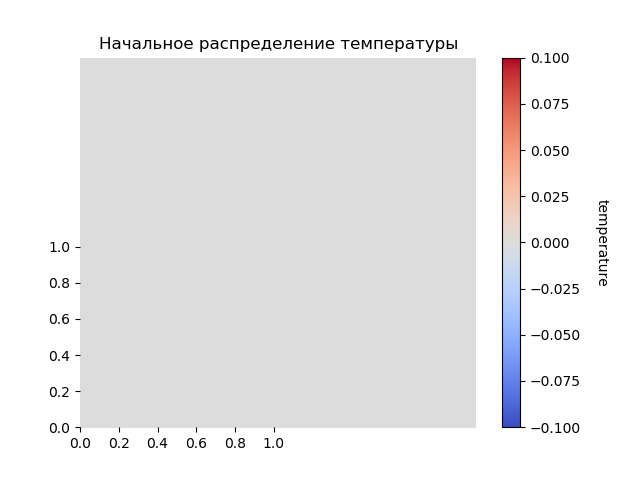
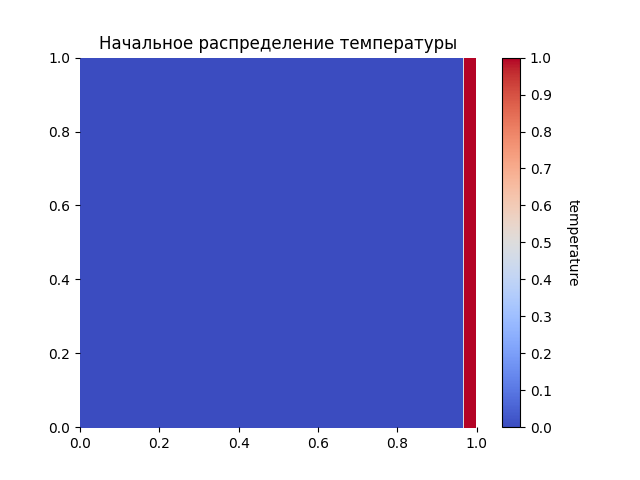
border cells time stat

diff --git a/src/proc/proc.cpp b/src/proc/proc.cpp
@@ -70,6 +70,10 @@ Proc::Proc() {
     stat.timers["sort_neighs"] = MpiTimer();
     stat.timers["compute_temps"] = MpiTimer();
     stat.timers["compute_temps_border"] = MpiTimer();
+    stat.timers["compute_temps_border_inblock"] = MpiTimer();
+    stat.timers["compute_temps_border_edges"] = MpiTimer();
+    stat.timers["compute_temps_border_interblock"] = MpiTimer();
+    stat.timers["compute_temps_border_res"] = MpiTimer();
 
     time_step_n = 0;
     active_neighs_num = 0;
@@ -719,12 +723,12 @@ void Proc::process_blocks_inner_cells() {
                     int n_neighs = 4;
                     double t0 = mesh.blocks[blk_i].cells[i*sz+j].temp[cur_temp_idx];
 
-                    if (USE_SIMPLE_FLOWS) {
+                    #ifdef USE_SIMPLE_FLOWS
                         flows_sum += mesh.blocks[blk_i].cells[i*sz+(j-1)].temp[cur_temp_idx];
                         flows_sum += mesh.blocks[blk_i].cells[i*sz+(j+1)].temp[cur_temp_idx];
                         flows_sum += mesh.blocks[blk_i].cells[(i-1)*sz+j].temp[cur_temp_idx];
                         flows_sum += mesh.blocks[blk_i].cells[(i+1)*sz+j].temp[cur_temp_idx];
-                    } else {
+                    #else
                         double t1 = mesh.blocks[blk_i].cells[i*sz+(j-1)].temp[cur_temp_idx];
                         flows_sum += - Area::a * (t1 - t0) / d * l;
                         t1 = mesh.blocks[blk_i].cells[i*sz+(j+1)].temp[cur_temp_idx];
@@ -733,7 +737,7 @@ void Proc::process_blocks_inner_cells() {
                         flows_sum += - Area::a * (t1 - t0) / d * l;
                         t1 = mesh.blocks[blk_i].cells[(i+1)*sz+j].temp[cur_temp_idx];
                         flows_sum += - Area::a * (t1 - t0) / d * l;
-                    }
+                    #endif
 
                     double x, y;
                     mesh.blocks[blk_i].get_spacial_coords(i, j, &x, &y);
@@ -741,13 +745,13 @@ void Proc::process_blocks_inner_cells() {
                     
                     // cout << "flows_sum=" << flows_sum << " q=" << q << "t_new=" << t0 + tau * (flows_sum + q) / S;
                     // cout << "internal block cells: t0=" << t0 << " flows_sum=" << flows_sum << " n_neighs=" << n_neighs << " q=" << q << endl;
-                    if (USE_SIMPLE_FLOWS) {
+                    #ifdef USE_SIMPLE_FLOWS
                         // просто среднее значение соседних ячеек + предыдущее значение в этой + источник
                         flows_sum *= Area::a;
                         mesh.blocks[blk_i].cells[i*sz+j].temp[next_temp_idx] = t0 + flows_sum / n_neighs + q;
-                    } else {
+                    #else
                         mesh.blocks[blk_i].cells[i*sz+j].temp[next_temp_idx] = t0 + tau * (flows_sum + q) / S;
-                    }
+                    #endif
                 }
             }
         }
@@ -817,38 +821,38 @@ std::pair<double,int> Proc::compute_inblock_flows_for_border_cell(BlockOfCells& 
     if (i > 0) { // down
         n_neighs++;
         double t1 = blk.cells[(i-1)*sz+j].temp[cur_temp_idx];
-        if (USE_SIMPLE_FLOWS) {
+        #ifdef USE_SIMPLE_FLOWS
             flows_this_block_sum += t1;
-        } else {
+        #else
             flows_this_block_sum += - Area::a * (t1 - t0) / d * l;
-        }
+        #endif
     }
     if (i < sz-1) { // up
         n_neighs++;
         double t1 = blk.cells[(i+1)*sz+j].temp[cur_temp_idx];
-        if (USE_SIMPLE_FLOWS) {
+        #ifdef USE_SIMPLE_FLOWS
             flows_this_block_sum += t1;
-        } else {
+        #else
             flows_this_block_sum += - Area::a * (t1 - t0) / d * l;
-        }
+        #endif
     }
     if (j > 0) { // left
         n_neighs++;
         double t1 = blk.cells[i*sz+(j-1)].temp[cur_temp_idx];
-        if (USE_SIMPLE_FLOWS) {
+        #ifdef USE_SIMPLE_FLOWS
             flows_this_block_sum += t1;
-        } else {
+        #else
             flows_this_block_sum += - Area::a * (t1 - t0) / d * l;
-        }
+        #endif
     }
     if (j < sz - 1) { // right
         n_neighs++;
         double t1 = blk.cells[i*sz+(j+1)].temp[cur_temp_idx];
-        if (USE_SIMPLE_FLOWS) {
+        #ifdef USE_SIMPLE_FLOWS
             flows_this_block_sum += t1;
-        } else {
+        #else
             flows_this_block_sum += - Area::a * (t1 - t0) / d * l;
-        }
+        #endif
     }
 
     return std::pair<double,int>(flows_this_block_sum, n_neighs);
@@ -877,12 +881,12 @@ std::pair<double,int> Proc::compute_border_flows_for_border_cell(BlockOfCells& b
 
             double t1 = cond_func(x+d/2, y, time_step_n * tau);
             if (border_cond_type == 1) {
-                if (USE_SIMPLE_FLOWS) {
+                #ifdef USE_SIMPLE_FLOWS
                     flows_borders_sum += t1;
                     n_neighs++;
-                } else {
+                #else
                     flows_borders_sum += - Area::a * (t1 - t0) / (d/2) * l;
-                }
+                #endif
             } 
             // else if (border_cond_type == 2) {
             //     flows_borders_sum += t1;
@@ -993,12 +997,12 @@ std::pair<double,int> Proc::compute_interblock_flows_for_border_cell(BlockOfCell
                 }
             }
             if (found) {
-                if (USE_SIMPLE_FLOWS) {
+                #ifdef USE_SIMPLE_FLOWS
                     flows_other_blocks_sum += t1;
                     n_neighs++;
-                } else {
+                #else
                     flows_other_blocks_sum += - Area::a * (t1 - t0) / d * l;
-                }
+                #endif
             }
         }
     }
@@ -1029,35 +1033,43 @@ void Proc::process_block_border_cell(BlockOfCells& blk, int i, int j) {
     //   3) от соседних ячеек в других блоках (на этом же проце или нет)
 
     // neighs in this block
+    // stat.timers["compute_temps_border_inblock"].Start();
     std::pair<double, int> tmp_pair = compute_inblock_flows_for_border_cell(blk, i, j);
     flows_sum += tmp_pair.first;
     n_neighs += tmp_pair.second;
+    // stat.timers["compute_temps_border_inblock"].Stop();
     
 
     // border flows
+    // stat.timers["compute_temps_border_edges"].Start();
     tmp_pair = compute_border_flows_for_border_cell(blk, i, j);
     flows_sum += tmp_pair.first;
     n_neighs += tmp_pair.second;
+    // stat.timers["compute_temps_border_edges"].Stop();
 
     // neighs in other blocks
+    // stat.timers["compute_temps_border_interblock"].Start();
     tmp_pair = compute_interblock_flows_for_border_cell(blk, i, j);
     flows_sum += tmp_pair.first;
     n_neighs += tmp_pair.second;
+    // stat.timers["compute_temps_border_interblock"].Stop();
 
 
     // result
+    // stat.timers["compute_temps_border_res"].Start();
     double x, y;
     blk.get_spacial_coords(i, j, &x, &y);
     double q = Area::Q(x, y, tau * time_step_n);
 
     int c_blk_num = i*blk.sz+j;
     double t0 = blk.cells[c_blk_num].temp[cur_temp_idx];
-    if (USE_SIMPLE_FLOWS) {
+    #ifdef USE_SIMPLE_FLOWS
         flows_sum *= Area::a;
         blk.cells[c_blk_num].temp[next_temp_idx] = t0 + flows_sum / n_neighs + q;
-    } else {
+    #else
         blk.cells[c_blk_num].temp[next_temp_idx] = t0 + tau * (flows_sum + q) / S;
-    }
+    #endif
+    // stat.timers["compute_temps_border_res"].Stop();
 }
 
 
@@ -1104,15 +1116,32 @@ void Proc::WriteStat() {
     double step = stat.timers["step"].FullDur();
     double compute_temps = stat.timers["compute_temps"].FullDur();
     double compute_temps_border = stat.timers["compute_temps_border"].FullDur();
+    double compute_temps_border_inblock = stat.timers["compute_temps_border_inblock"].FullDur();
+    double compute_temps_border_edges = stat.timers["compute_temps_border_edges"].FullDur();
+    double compute_temps_border_interblock = stat.timers["compute_temps_border_interblock"].FullDur();
+    double compute_temps_border_res = stat.timers["compute_temps_border_res"].FullDur();
     double exchange_ghosts = stat.timers["exchange_ghosts"].FullDur();
     double build_ghosts = stat.timers["build_ghosts"].FullDur();
     double init_mesh = stat.timers["init_mesh"].FullDur();
 
-    double max_step, max_compute_temps, max_compute_temps_border, max_exchange_ghosts, max_build_ghosts, max_init_mesh;
+    double max_step, 
+        max_compute_temps, 
+        max_compute_temps_border, 
+        max_compute_temps_border_inblock, 
+        max_compute_temps_border_edges, 
+        max_compute_temps_border_interblock, 
+        max_compute_temps_border_res, 
+        max_exchange_ghosts, 
+        max_build_ghosts, 
+        max_init_mesh;
 
     MPI_Reduce(&step, &max_step, 1, MPI_DOUBLE, MPI_MAX, 0, mpiInfo.comm);
     MPI_Reduce(&compute_temps, &max_compute_temps, 1, MPI_DOUBLE, MPI_MAX, 0, mpiInfo.comm);
     MPI_Reduce(&compute_temps_border, &max_compute_temps_border, 1, MPI_DOUBLE, MPI_MAX, 0, mpiInfo.comm);
+    MPI_Reduce(&compute_temps_border_inblock, &max_compute_temps_border_inblock, 1, MPI_DOUBLE, MPI_MAX, 0, mpiInfo.comm);
+    MPI_Reduce(&compute_temps_border_edges, &max_compute_temps_border_edges, 1, MPI_DOUBLE, MPI_MAX, 0, mpiInfo.comm);
+    MPI_Reduce(&compute_temps_border_interblock, &max_compute_temps_border_interblock, 1, MPI_DOUBLE, MPI_MAX, 0, mpiInfo.comm);
+    MPI_Reduce(&compute_temps_border_res, &max_compute_temps_border_res, 1, MPI_DOUBLE, MPI_MAX, 0, mpiInfo.comm);
     MPI_Reduce(&exchange_ghosts, &max_exchange_ghosts, 1, MPI_DOUBLE, MPI_MAX, 0, mpiInfo.comm);
     MPI_Reduce(&build_ghosts, &max_build_ghosts, 1, MPI_DOUBLE, MPI_MAX, 0, mpiInfo.comm);
     MPI_Reduce(&init_mesh, &max_init_mesh, 1, MPI_DOUBLE, MPI_MAX, 0, mpiInfo.comm);
@@ -1121,6 +1150,10 @@ void Proc::WriteStat() {
         cout << "\n\n\n\nSTAT| max_step: " << max_step
                 << " | max_compute_temps: " << max_compute_temps
                 << " | max_compute_temps_border: " << max_compute_temps_border
+                << " | max_compute_temps_border_inblock: " << max_compute_temps_border_inblock
+                << " | max_compute_temps_border_edges: " << max_compute_temps_border_edges
+                << " | max_compute_temps_border_interblock: " << max_compute_temps_border_interblock
+                << " | max_compute_temps_border_res: " << max_compute_temps_border_res
                 << " | max_exchange_ghosts: " << max_exchange_ghosts
                 << " | max_build_ghosts: " << max_build_ghosts
                 << " | max_init_mesh: " << max_init_mesh << " |\n\n\n\n" << endl; 

diff --git a/src/area/area.cpp b/src/area/area.cpp
@@ -7,7 +7,7 @@ double Area::x_end = 1.0;
 double Area::y_end = 1.0;
 
 // double ro = 1190.0, lambda = 0.16, c = 900.0;
-double Area::ro = 1, Area::lambda = 0.1, Area::c = 1;
+double Area::ro = 1, Area::lambda = 0.01, Area::c = 1;
 double Area::a = lambda / (ro * c);
 // double a = 1;
 
@@ -98,8 +98,8 @@ void Area::get_border_cond(Border b, char *cond_type, double (**cond_func)(doubl
             // *cond_type = 2;
             // *cond_func = &BorderCond2;
             *cond_type = 1;
-            *cond_func = &BorderCond1;
-            // *cond_func = &BorderCondFixed1;
+            // *cond_func = &BorderCond1;
+            *cond_func = &BorderCondFixed1;
             break;
         }
         case UP: {
